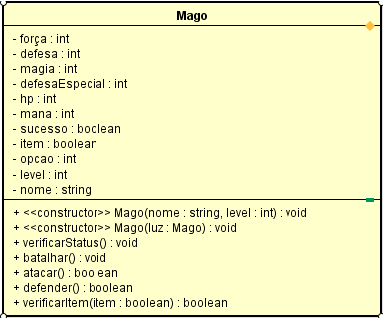
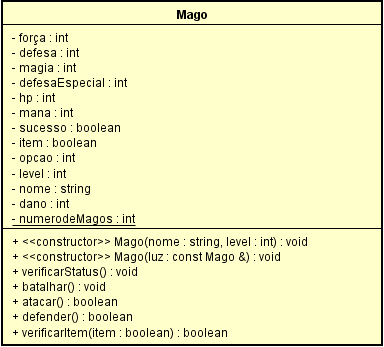
Atualização

Changed region(s): [[0.0, 0.0, 1.0, 1.0]]

diff --git a/Mago.cpp b/Mago.cpp
@@ -10,6 +10,8 @@ using std::setw;
 
 Inimigo monstro;
 
+int Mago::numerodeMagos = 0;
+
 Mago::Mago(const string &nome, int level){
 	
 	this->nome=nome;
@@ -20,6 +22,18 @@ Mago::Mago(const string &nome, int level){
 	this->defesa = 84+level;
 	this->magia = 145+level*3;
 	this->defesaEspecial = 115+level*2;
+	numerodeMagos++;
+}
+
+Mago::Mago(const Mago &magodeFora){
+	nome = magodeFora.nome;
+	level = magodeFora.level;
+	hp = magodeFora.hp;
+	mana = magodeFora.mana;
+	forca = magodeFora.forca;
+	defesa = magodeFora.defesa;
+	magia = magodeFora.magia;
+	defesaEspecial = magodeFora.defesaEspecial;
 }
 
 void Mago::verificarStatus(){
@@ -32,6 +46,7 @@ void Mago::verificarStatus(){
 	cout << setw(38) <<"Defesa Especial " << setw(5) << defesaEspecial <<'\n' << endl;
 	cout << setw(38) <<"HP " << setw(5) << hp <<'\n';
 	cout << setw(38) <<"Mana " << setw(5) << mana <<"\n\n";
+	cout << "Numero de Magos = " << numerodeMagos << endl << endl;
 	system("pause");
 }
 

diff --git a/main.cpp b/main.cpp
@@ -7,6 +7,7 @@ int main(int argc, char **argv){
 	bool item, opcao; 
 	
 	Mago luz("Gandalf", 1);
+	Mago trevas("Saruman", 10);
 	
 	luz.verificarStatus();
 	system("cls");
